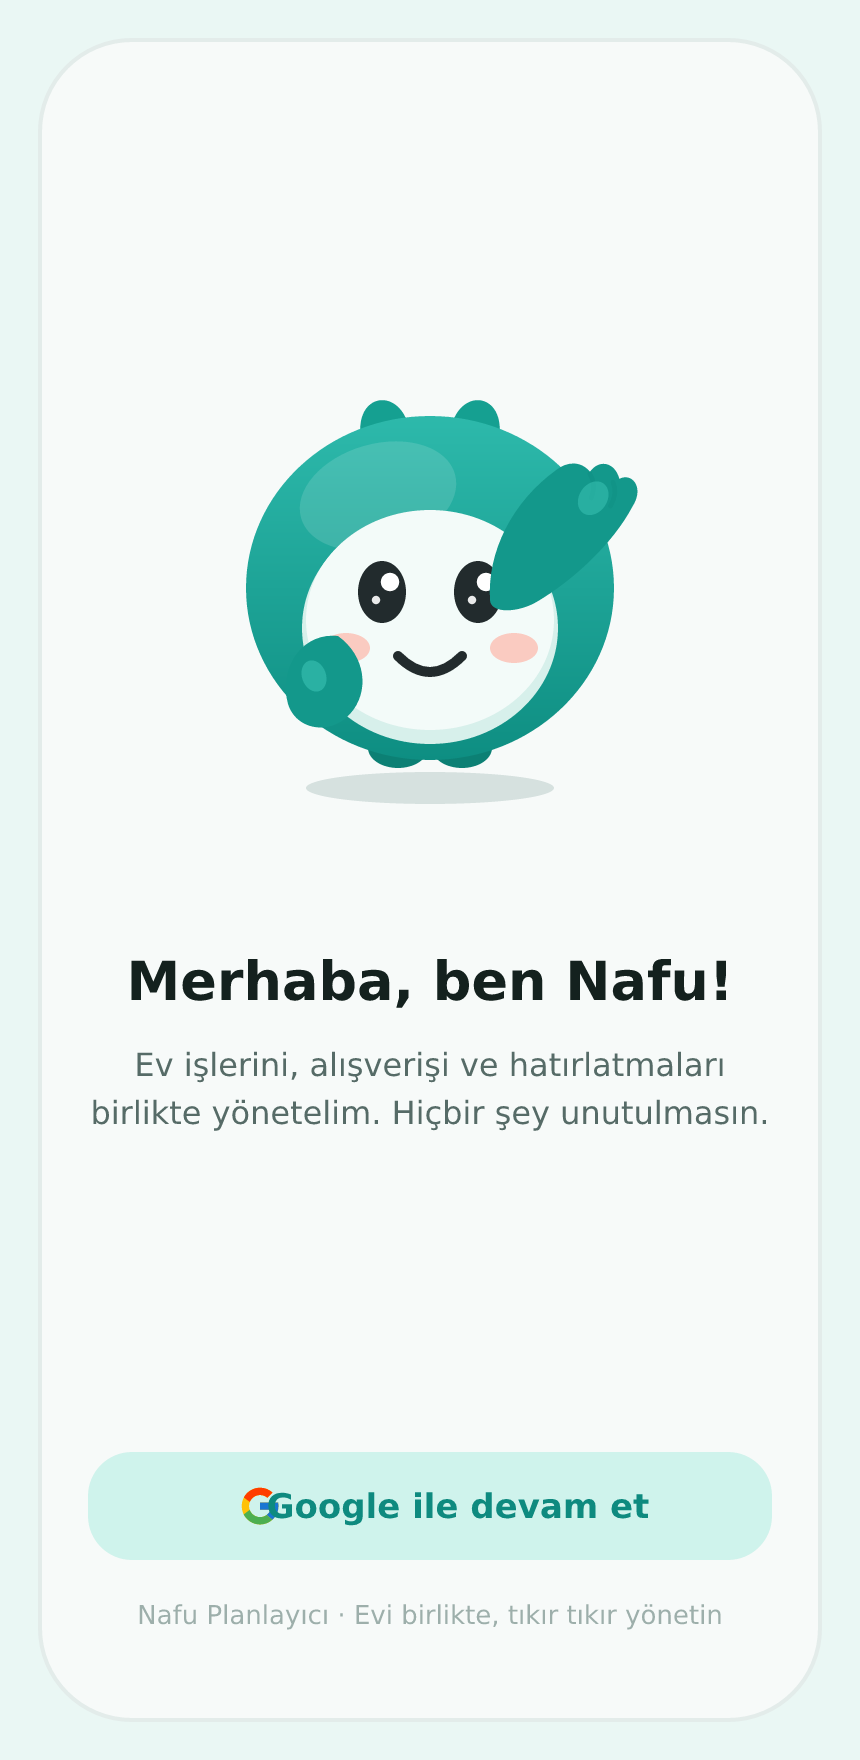
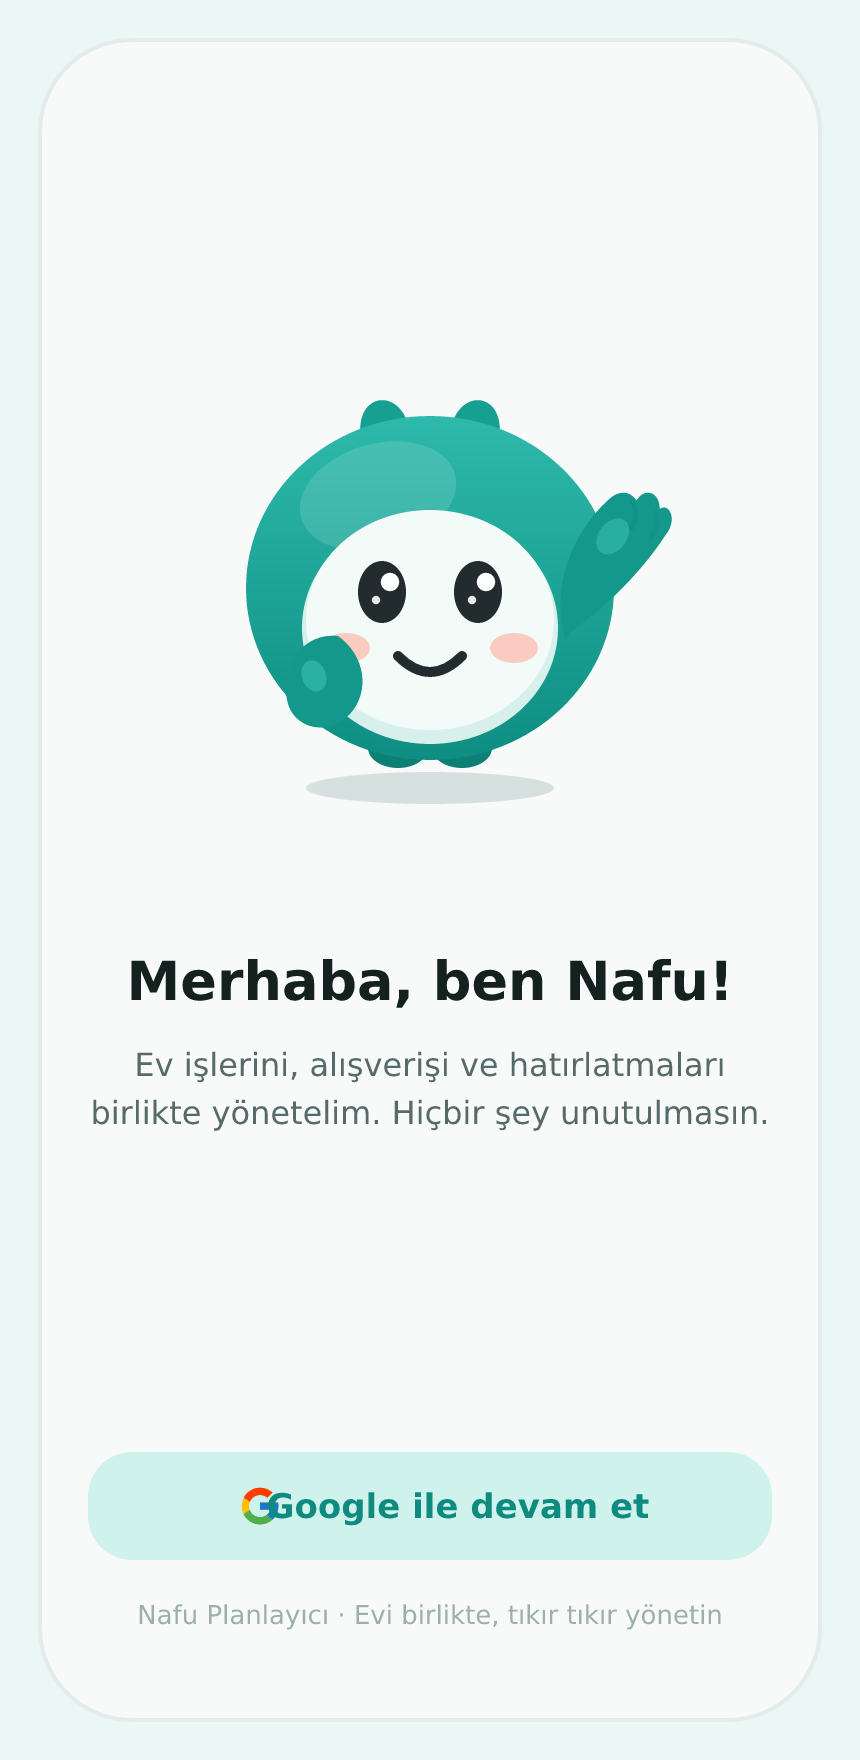
Nafu: selam kolunu omuzdan çıkar, tüm ifadeleri animasyonlu göster
- Selam kolu artık gövdenin sağ yanından (omuz) çıkıyor; yüze/göze değmiyor
- Kol pivotu omuza taşındı (AnimatedG origin güncellendi)
- GIF tüm 5 ifadeyi animasyonlu gösteriyor (nefes, selam, kutlama zıplaması,
  göz kırpma, uyku Zzz süzülmesi)

https://claude.ai/code/session_019WGL5HgRB48T4nXcLZYDE5

Changed region(s): [[0.6349, 0.25, 0.786, 0.3438], [0.5442, 0.2812, 0.6349, 0.3438]]

diff --git a/src/ui/mascot/Nafu.tsx b/src/ui/mascot/Nafu.tsx
@@ -190,7 +190,7 @@ export function Nafu({ size = 160, expression = 'happy', animated = true }: Nafu
         {/* Kollar */}
         <RestPaw side="left" />
         {expression === 'wave' ? (
-          <AnimatedG rotation={armRotation} originX={150} originY={132}>
+          <AnimatedG rotation={armRotation} originX={188} originY={150}>
             <WaveArm />
           </AnimatedG>
         ) : (
@@ -241,12 +241,12 @@ function WaveArm() {
   return (
     <G>
       <Path
-        d="M150 132 C146 108 156 82 176 64 C181 59 188 58 193 63 C197 56 205 57 208 65 C214 61 221 68 216 78 C208 98 190 118 174 130 C165 137 151 139 150 132 Z"
+        d="M188 152 C178 130 184 100 202 80 C206 75 212 74 216 79 C219 72 227 73 228 82 C232 78 238 86 232 95 C223 113 206 134 192 146 C186 152 190 154 188 152 Z"
         fill={ARM}
       />
-      <Path d="M193 64 q4 5 2 12" stroke={BODY_BOT} strokeWidth={2.4} strokeLinecap="round" fill="none" opacity={0.5} />
-      <Path d="M205 67 q3 5 0 12" stroke={BODY_BOT} strokeWidth={2.4} strokeLinecap="round" fill="none" opacity={0.45} />
-      <Ellipse cx={196} cy={76} rx={7} ry={9} fill={ARM_HI} opacity={0.5} transform="rotate(28 196 76)" />
+      <Path d="M214 80 q4 5 1 13" stroke={BODY_BOT} strokeWidth={2.4} strokeLinecap="round" fill="none" opacity={0.5} />
+      <Path d="M226 84 q3 6 -1 13" stroke={BODY_BOT} strokeWidth={2.4} strokeLinecap="round" fill="none" opacity={0.45} />
+      <Ellipse cx={206} cy={98} rx={7} ry={10} fill={ARM_HI} opacity={0.5} transform="rotate(32 206 98)" />
     </G>
   );
 }
